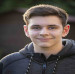
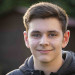
added alberto's image, new team member

diff --git a/theme/index.html b/theme/index.html
@@ -399,7 +399,6 @@
         </div>
 
         <!-- team-member -->
-        <!--
         <div class="team-member">
           <div class="d-flex mb-4">
             <div class="mr-3">
@@ -415,7 +414,7 @@
             Ogni giorno amo sperimentare nuove tecnologie per ampliare 
             sempre di più le mie conoscenze per creare soluzioni sempre 
             più innovative per migliorare la vita delle persone.</p>
-        </div>-->
+        </div>
 
       </div>
     </div>

diff --git a/source/partials/blocks/team.htm b/source/partials/blocks/team.htm
@@ -53,7 +53,6 @@
         </div>
 
         <!-- team-member -->
-        <!--
         <div class="team-member">
           <div class="d-flex mb-4">
             <div class="mr-3">
@@ -69,7 +68,7 @@
             Ogni giorno amo sperimentare nuove tecnologie per ampliare 
             sempre di più le mie conoscenze per creare soluzioni sempre 
             più innovative per migliorare la vita delle persone.</p>
-        </div>-->
+        </div>
 
       </div>
     </div>
